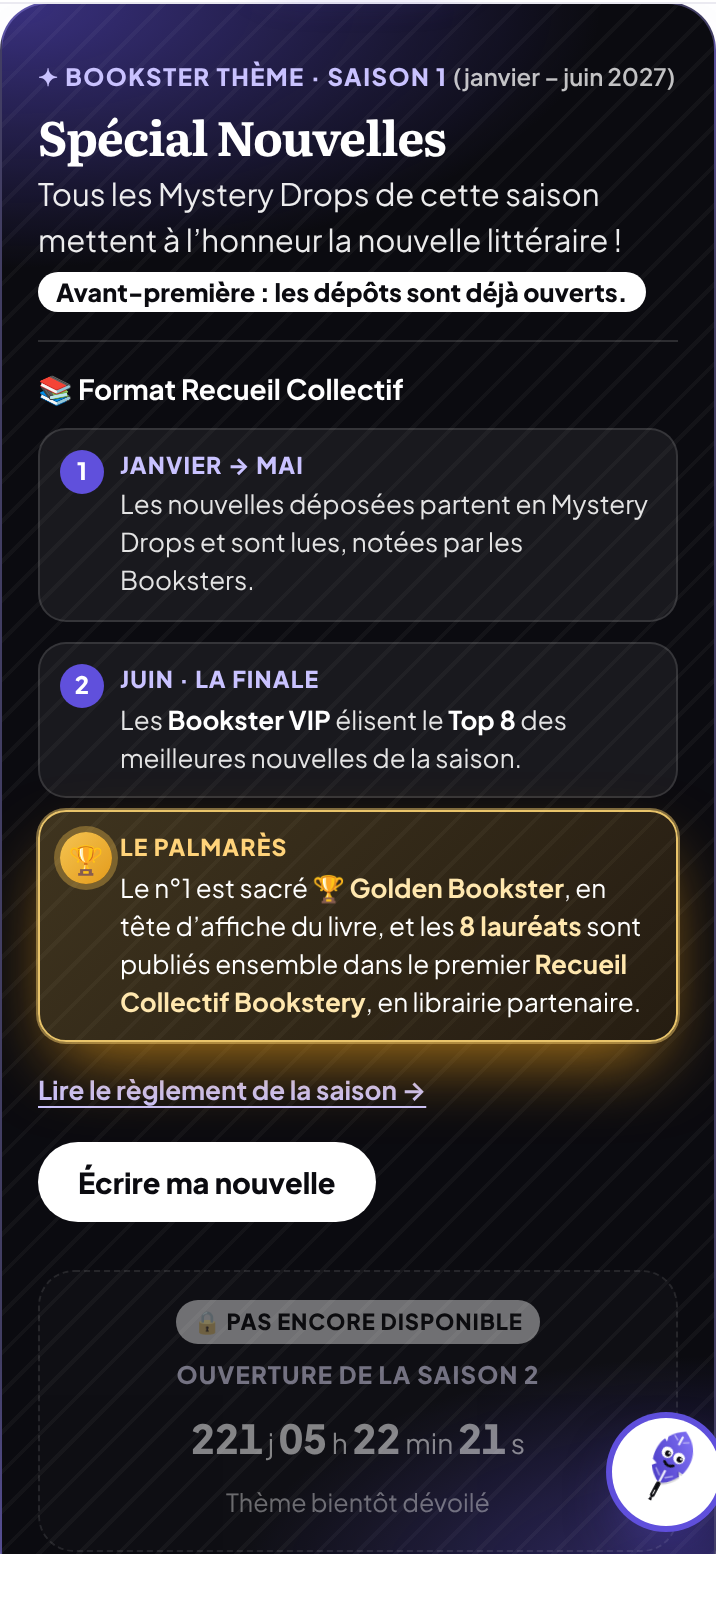
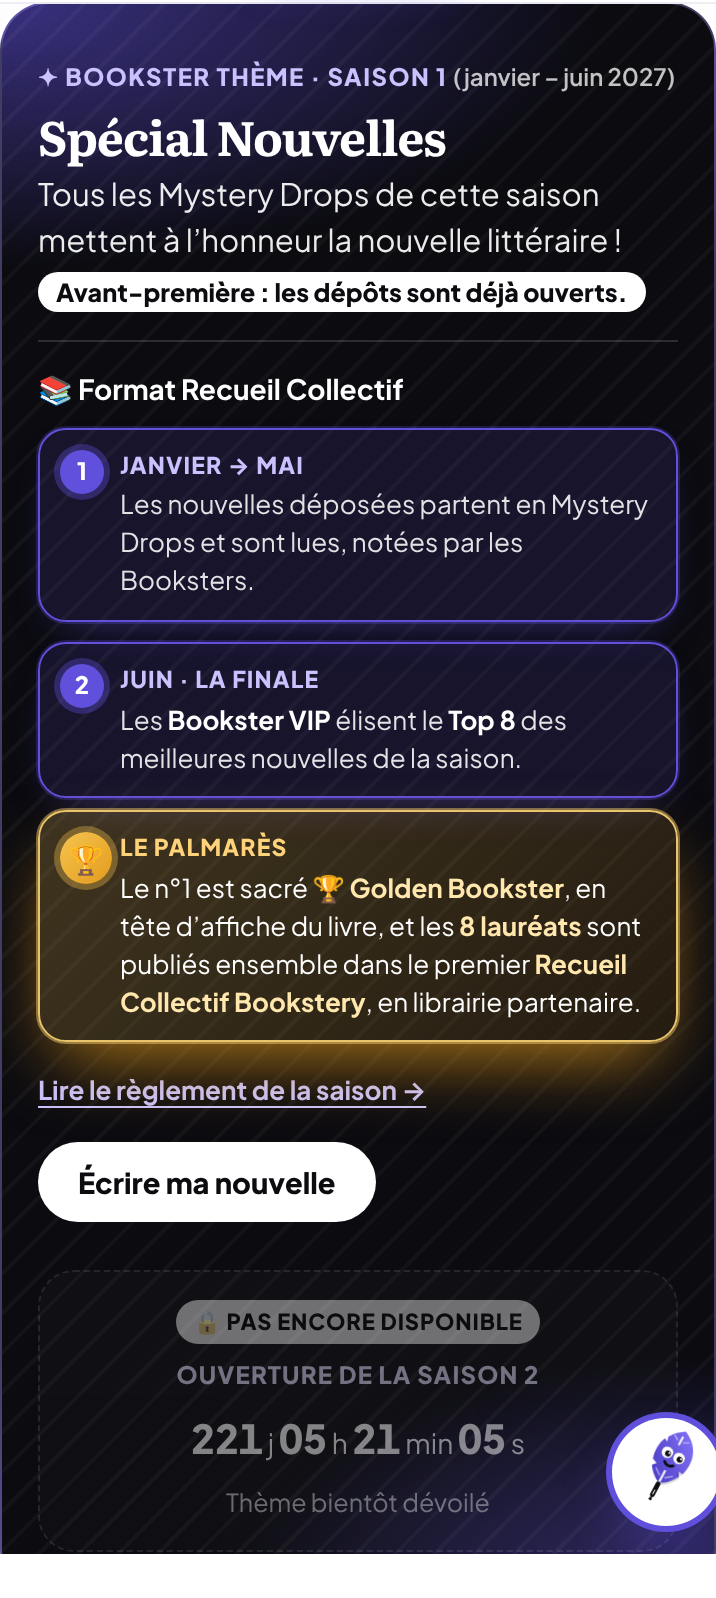
Bannière Saison 1 : étapes 1 et 2 encadrées en bleu Majorelle
Claude-Session: https://claude.ai/code/session_01EPa3evC84KLMU14gb8iTX3

diff --git a/index.html b/index.html
@@ -1184,6 +1184,9 @@ footer .legal{grid-column:1/-1;border-top:1px solid var(--line);padding-top:18px
 .sz-steps li:last-child::before{width:26px;height:26px;font-size:14px;box-shadow:0 0 0 3px rgba(245,196,81,.35)}
 @keyframes pmGlow{0%,100%{box-shadow:0 0 0 1px rgba(233,196,106,.25),0 14px 30px -12px rgba(227,155,27,.5)}50%{box-shadow:0 0 0 1px rgba(233,196,106,.5),0 16px 38px -10px rgba(227,155,27,.8)}}
 @media(max-width:760px){.sz-r{transform:none}}
+/* Étapes 1 et 2 : contour bleu Majorelle */
+.sz-steps li:not(:last-child){border:1.5px solid #6050DC;background:rgba(96,80,220,.14);box-shadow:0 0 0 1px rgba(96,80,220,.25),0 10px 24px -14px rgba(96,80,220,.7)}
+.sz-steps li:not(:last-child)::before{box-shadow:0 0 0 3px rgba(96,80,220,.35)}
 @media(prefers-reduced-motion:reduce){*{transition-duration:.01ms!important;animation:none!important;scroll-behavior:auto!important}}
 </style>
 </head>
